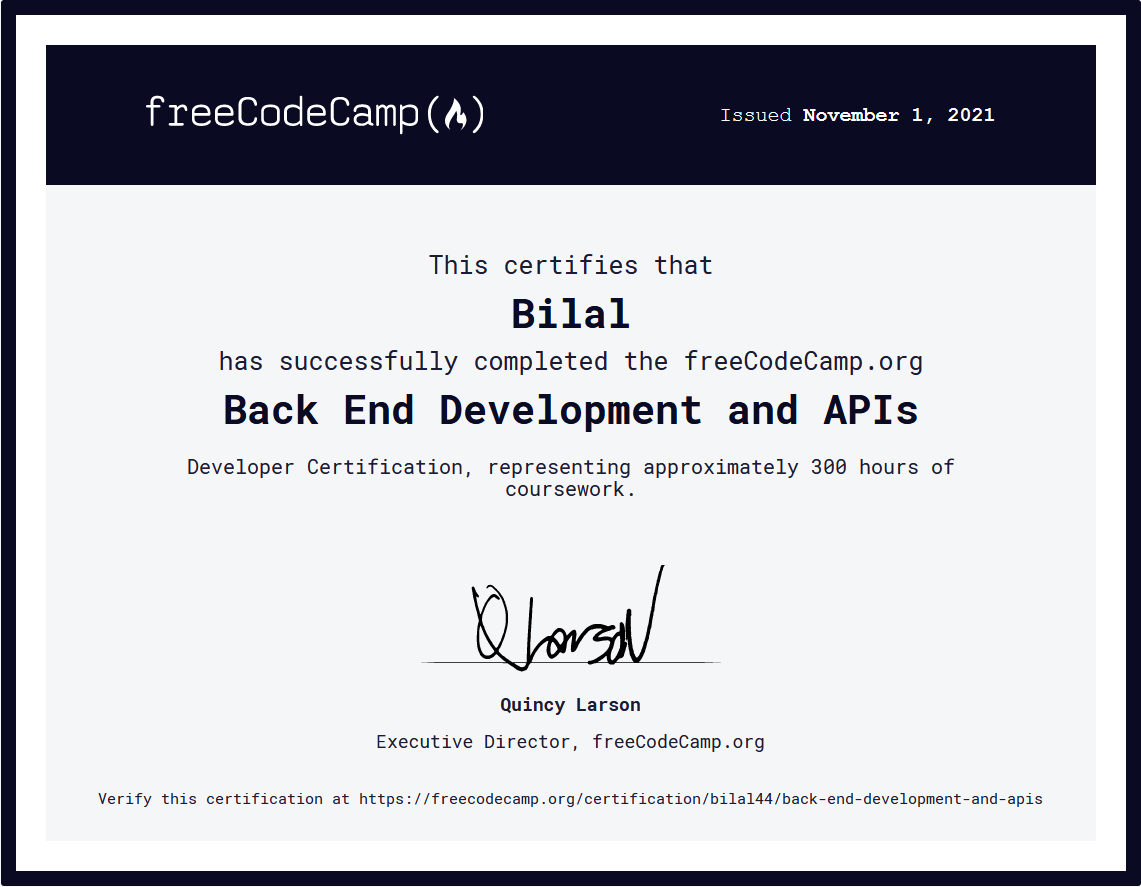
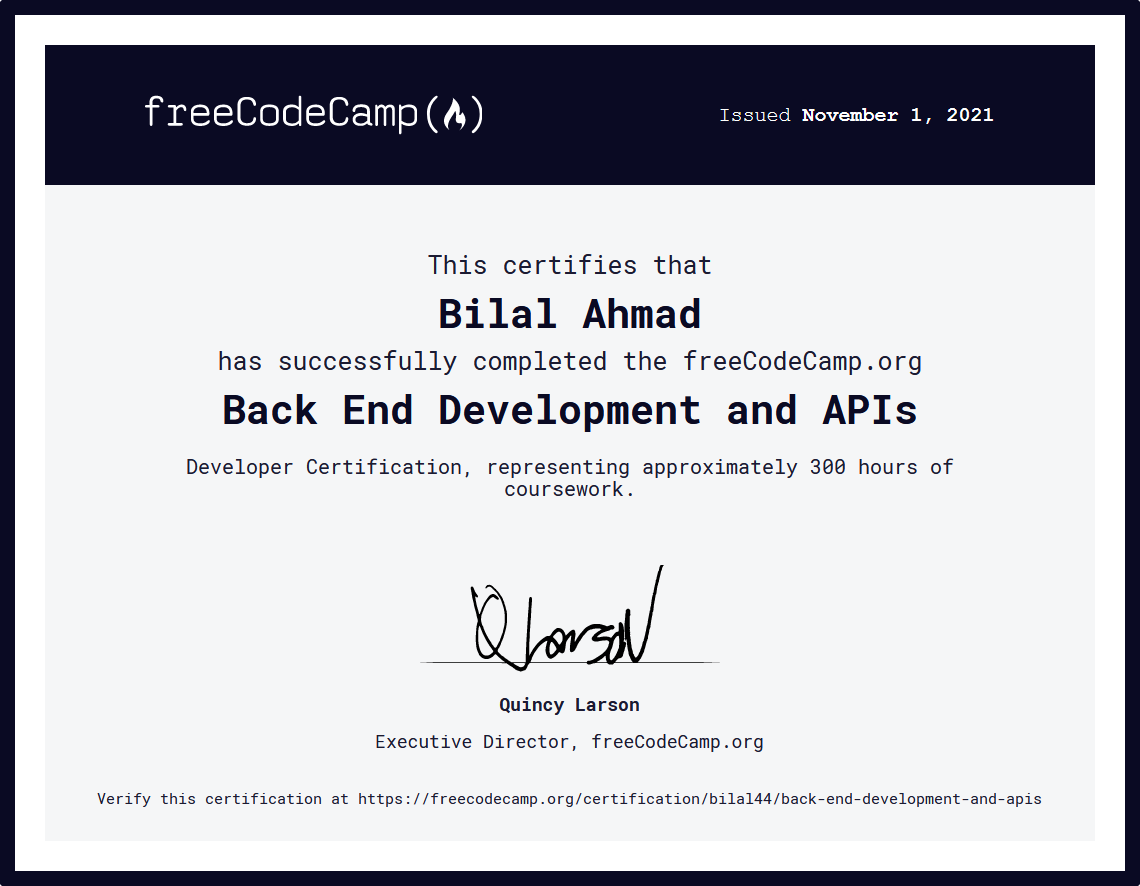
Add certificate with full name, replace if statements with ternary operators

diff --git a/boilerplate-project-exercisetracker/server.js b/boilerplate-project-exercisetracker/server.js
@@ -120,9 +120,9 @@ app.post("/api/users/:_id/exercises", (req, res) => {
 // Get the exercise log belonging to a specific user
 app.get("/api/users/:_id/logs", (req, res) => {
   var { from, to, limit } = req.query;
-  if (from == null) from = new Date("0000-01-01");
-  if (to == null) to = new Date();
-  if (limit == null) limit = 0;
+  from = (from === undefined ? new Date('0000-01-01') : new Date(from));
+  to = (to === undefined ? new Date() : new Date(to));
+  limit = (limit === undefined ? 0 : limit);
 
   try {
     User.findById(req.params._id, (err, data) => {
@@ -138,7 +138,7 @@ app.get("/api/users/:_id/logs", (req, res) => {
 
           // Populate exercise log for a valid user
           try {
-            Exercise.find({ userId, date: { $gte: new Date(from), $lte: new Date(to) } }, (err, data) => {
+            Exercise.find({ userId, date: { $gte: from, $lte: to } }, (err, data) => {
               if (err) {
                 console.error(err);
                 res.status(500).send(err.message);

diff --git a/README.md b/README.md
@@ -10,4 +10,4 @@ Five projects developed for FreeCodeCamp's 'Back End Development and APIs' onlin
 
 <br>
 
-[![FCC Backend Development & API Certificate](FCC-BE-Certificate.PNG "FCC Backend Development & API Certificate")](https://www.freecodecamp.org/certification/bilal44/back-end-development-and-apis)
+<a href="https://www.freecodecamp.org/certification/bilal44/back-end-development-and-apis" title="FCC Backend Development & API Certificate"><center><img src="FCC-BE-Certificate.PNG" text="FCC Backend Development & API Certificate"/></center></a>
